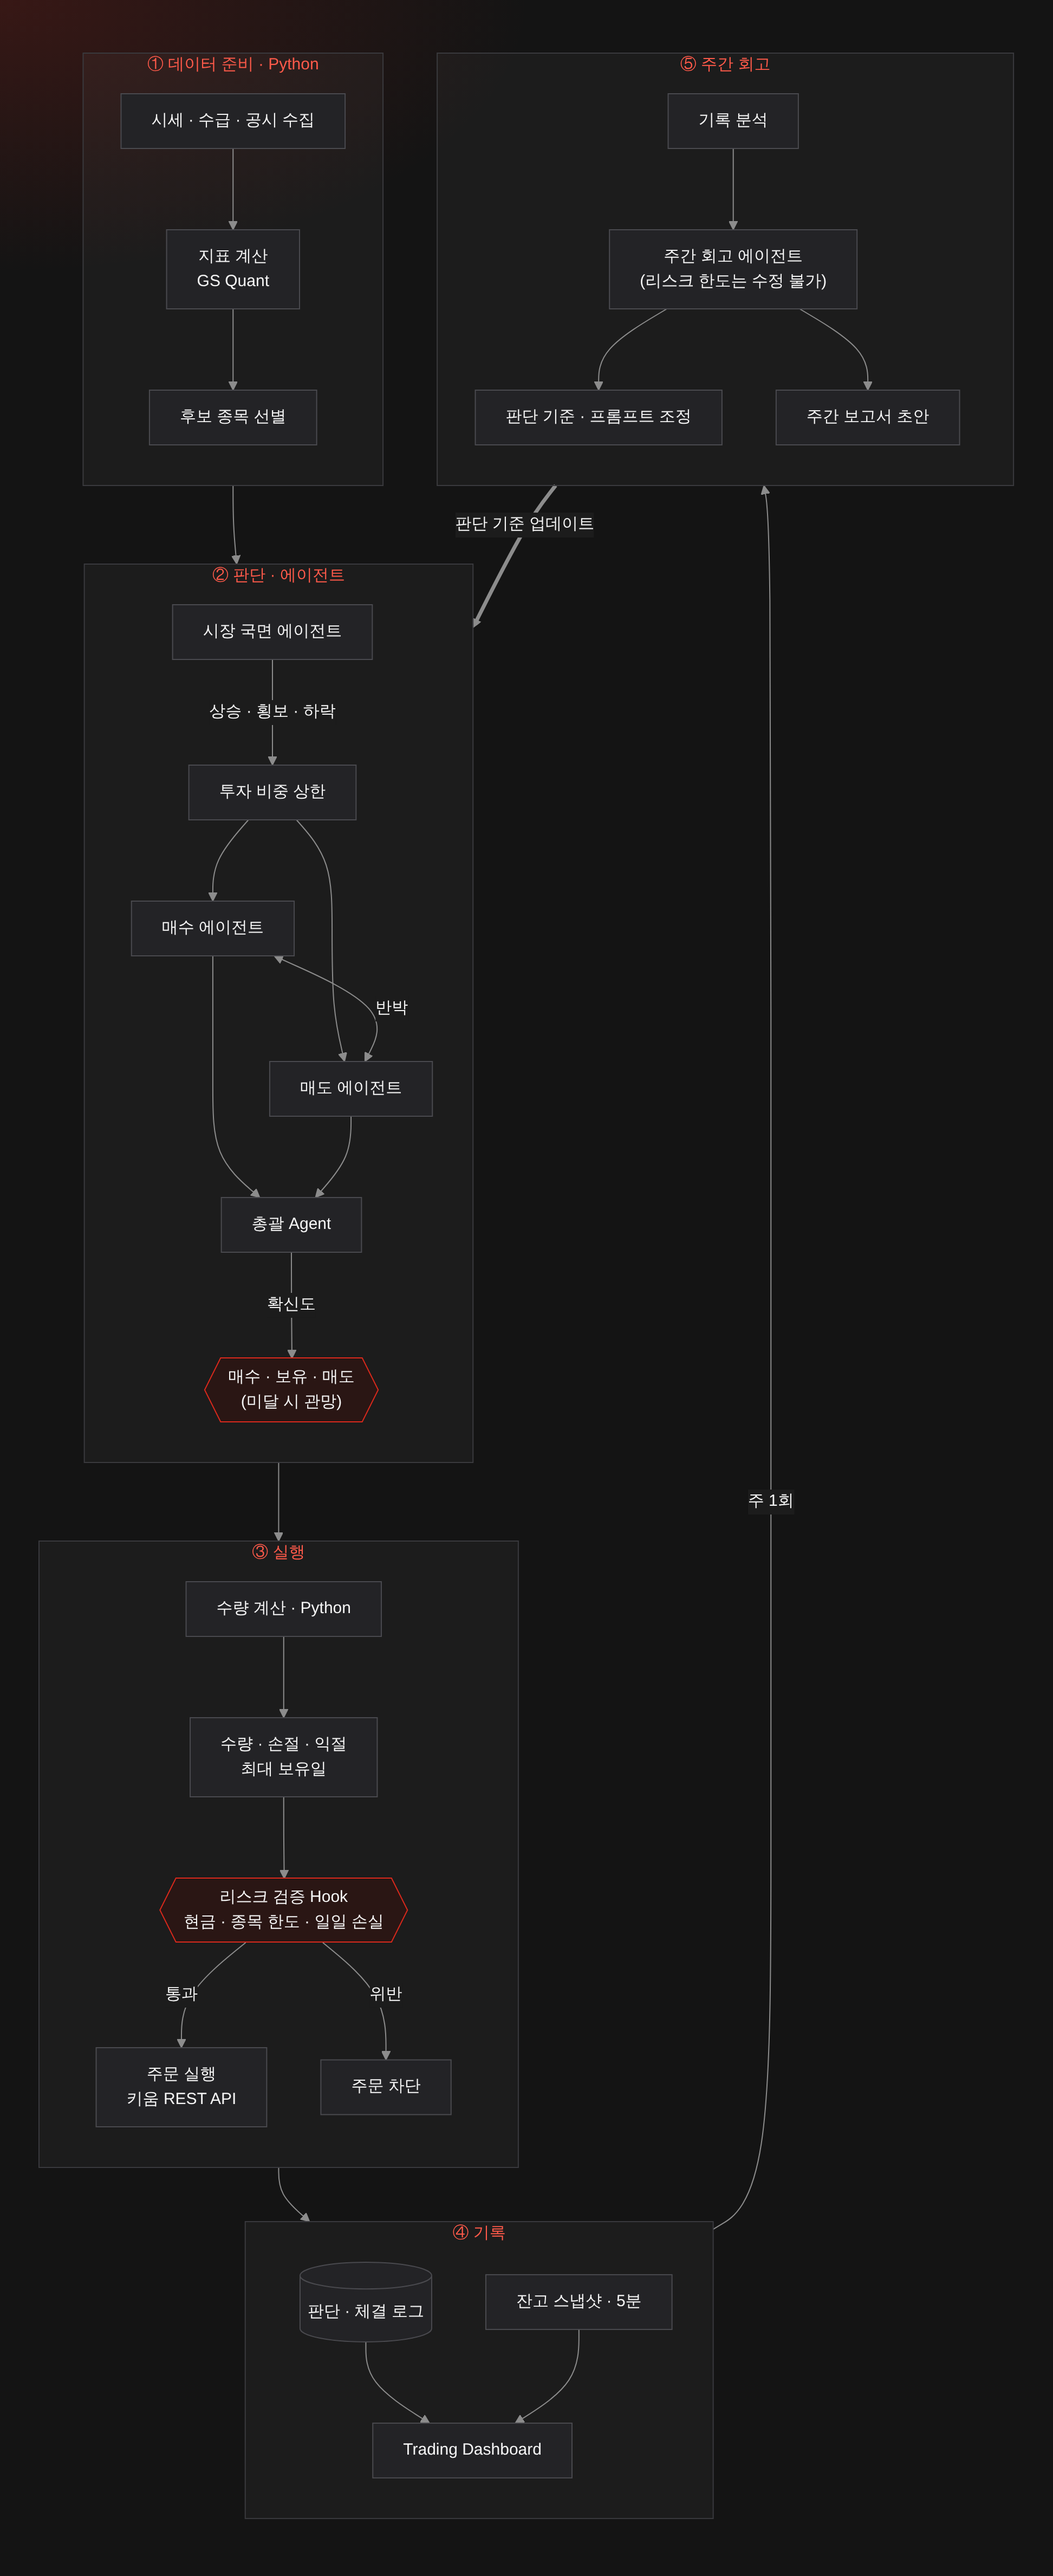
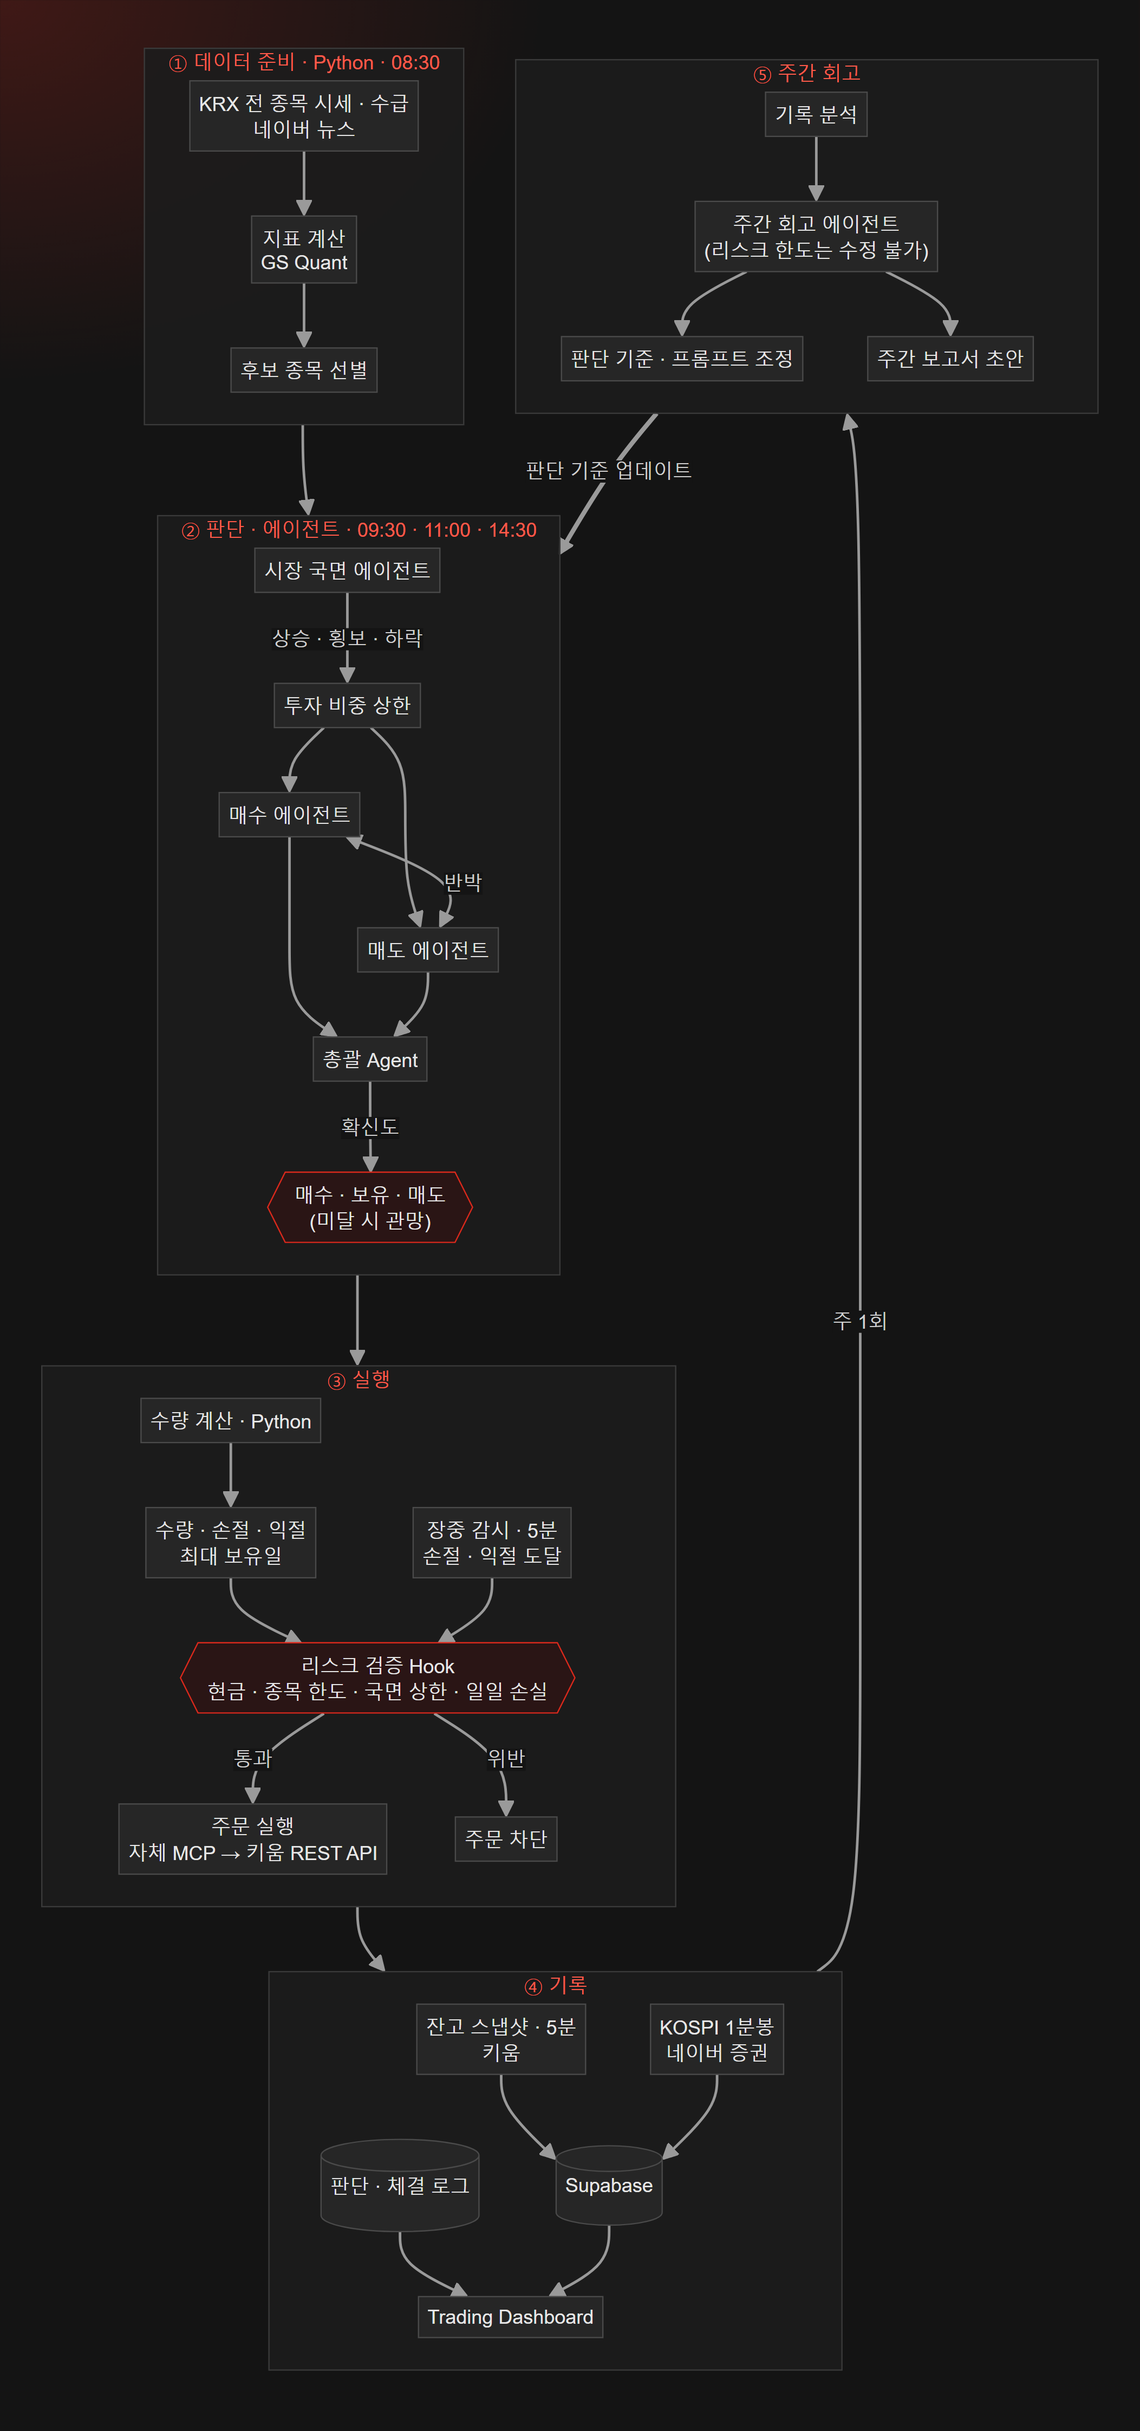
README: update architecture diagram and docs for launch day
Diagram now shows KRX and Naver news in data prep, the three daily
decision runs, the intraday stop / take-profit watch feeding the risk
Hook, orders through our own MCP, and live KOSPI via Supabase. Add the
daily schedule, new data sources and the agent folder layout.

diff --git a/README.ko.md b/README.ko.md
@@ -12,7 +12,7 @@
 ![Kiwoom](https://img.shields.io/badge/Broker-Kiwoom%20REST%20API-1f4fa3?style=flat-square)
 ![Supabase](https://img.shields.io/badge/Realtime-Supabase-3ecf8e?style=flat-square)
 ![D3](https://img.shields.io/badge/Viz-D3.js-f9a03c?style=flat-square)
-![Status](https://img.shields.io/badge/Status-대회%20준비%20중-da291c?style=flat-square)
+![Status](https://img.shields.io/badge/Status-대회%20진행%20중-da291c?style=flat-square)
 
 <img src="assets/dashboard.jpg" alt="Trading Dashboard" width="100%">
 
@@ -50,12 +50,12 @@ LLM에게 매매를 통째로 맡기면 두 가지 문제가 생깁니다.
 
 ```mermaid
 flowchart TB
-    subgraph S1["① 데이터 준비 · Python"]
-        direction LR
-        A1["시세 · 수급 · 뉴스 수집"] --> A2["지표 계산<br/>GS Quant"] --> A3["후보 종목 선별"]
+    subgraph S1["① 데이터 준비 · Python · 08:30"]
+        direction TB
+        A1["KRX 전 종목 시세 · 수급<br/>네이버 뉴스"] --> A2["지표 계산<br/>GS Quant"] --> A3["후보 종목 선별"]
     end
-    subgraph S2["② 판단 · 에이전트"]
-        direction LR
+    subgraph S2["② 판단 · 에이전트 · 09:30 · 11:00 · 14:30"]
+        direction TB
         B1["시장 국면 에이전트"] -->|상승 · 횡보 · 하락| B2["투자 비중 상한"]
         B2 --> C1["매수 에이전트"]
         B2 --> C2["매도 에이전트"]
@@ -65,18 +65,21 @@ flowchart TB
         E1 -->|확신도| E2{{"매수 · 보유 · 매도<br/>(미달 시 관망)"}}
     end
     subgraph S3["③ 실행"]
-        direction LR
-        F1["수량 계산 · Python"] --> F2["수량 · 손절 · 익절<br/>최대 보유일"] --> G{{"리스크 검증 Hook<br/>현금 · 종목 한도 · 일일 손실"}}
-        G -->|통과| H["주문 실행<br/>키움 REST API"]
+        direction TB
+        F1["수량 계산 · Python"] --> F2["수량 · 손절 · 익절<br/>최대 보유일"] --> G{{"리스크 검증 Hook<br/>현금 · 종목 한도 · 국면 상한 · 일일 손실"}}
+        M["장중 감시 · 5분<br/>손절 · 익절 도달"] --> G
+        G -->|통과| H["주문 실행<br/>자체 MCP → 키움 REST API"]
         G -->|위반| X["주문 차단"]
     end
     subgraph S4["④ 기록"]
-        direction LR
+        direction TB
         I[("판단 · 체결 로그")] --> K["Trading Dashboard"]
-        L["잔고 스냅샷 · 5분"] --> K
+        L["잔고 스냅샷 · 5분<br/>키움"] --> SB[("Supabase")]
+        N["KOSPI 1분봉<br/>네이버 증권"] --> SB
+        SB --> K
     end
     subgraph S5["⑤ 주간 회고"]
-        direction LR
+        direction TB
         J1["기록 분석"] --> J2["주간 회고 에이전트<br/>(리스크 한도는 수정 불가)"]
         J2 --> J3["판단 기준 · 프롬프트 조정"]
         J2 --> J4["주간 보고서 초안"]
@@ -94,9 +97,21 @@ flowchart TB
 | 시장 국면 | 서브에이전트 | 지수 추세·변동성으로 국면 분류, 전체 투자 비중 상한 조정 |
 | 매수 / 매도 | 서브에이전트 | 후보·보유 종목별 강세 / 약세 근거 제시, 서로 반박 |
 | 주간 회고 | 서브에이전트 | 거래 기록 분석, 판단 기준값 조정 제안 (리스크 한도는 수정 불가) |
-| 데이터 준비 | Python | 시세·수급·뉴스 수집, 지표 계산 → LLM에는 숫자 요약만 전달 |
+| 데이터 준비 | Python | KRX 전 종목 시세·수급, 네이버 뉴스 수집, 지표 계산 → LLM에는 숫자 요약만 전달 |
 | 수량 계산 | Python | 확신도를 주문 수량으로 변환, 손절·익절·최대 보유일 설정 |
-| 리스크 검증 | Claude Code Hook | 주문 직전 한도 강제 확인, 위반 시 차단 |
+| 리스크 검증 | Claude Code Hook | 주문 직전 현금·종목 한도·국면 상한·일일 손실 강제 확인, 위반 시 차단 |
+| 장중 감시 | Python | 5분마다 손절·익절·최대 보유일 확인, 걸리면 매도 전용 실행 |
+| 주문 실행 | 자체 MCP 서버 | 키움 REST API를 직접 호출 (키움 공식 MCP 대신 직접 구현, 대회 운영진 확인) |
+
+### 하루 일정 (평일)
+
+| 시각 | 실행 | LLM |
+|---|---|---|
+| 08:30 | 데이터 준비 — 계좌 조회, 시세·수급·뉴스 → 후보 종목 | ❌ |
+| 09:05 – 15:20 | 장중 감시 — 5분마다 손절·익절 확인 | 걸릴 때만 |
+| **09:30 · 11:00 · 14:30** | 정기 판단 — 국면 → 매수 ⇄ 매도 토론 → 총괄 결정 → 주문 | ⭕ |
+| 15:45 | 마감 기록 — 오늘 자산을 대시보드에 반영 | ❌ |
+| 토 10:00 | 주간 회고 · 보고서 초안 | ⭕ |
 
 ### 설계 원칙
 
@@ -124,6 +139,7 @@ flowchart TB
 | 기능 | 설명 |
 |---|---|
 | 실시간 수익률 | 장중 5분마다 키움 잔고를 조회해 Supabase로 전송, 화면은 30초마다 갱신 |
+| 실시간 KOSPI | 네이버 증권 1분봉을 Supabase가 1분마다 수집 (지연 없음), 전일 흐름·거래량·RSI와 함께 표시 |
 | 누적 수익률 vs KOSPI | 시장 국면(상승·횡보·하락) 띠와 함께 표시 |
 | 확신도 vs 수익 | 에이전트의 확신도가 실제 수익과 맞았는지 검증 |
 | 매매 타임라인 | 거래마다 에이전트 토론 내용을 툴팁으로 확인 |
@@ -138,10 +154,10 @@ flowchart TB
 | 영역 | 사용 |
 |---|---|
 | 에이전트 | Claude Code (서브에이전트 `.claude/agents/`, Hooks, 헤드리스 실행) |
-| 데이터 | 키움 REST API, pykrx, 네이버 뉴스 검색 API |
+| 데이터 | 키움 REST API, KRX 정보데이터시스템 (pykrx), 네이버 뉴스 검색 (NAVER API HUB), 네이버 증권 1분봉 |
 | 지표 | GS Quant (이동평균·변동성·RSI·최대 낙폭) |
 | 대시보드 | HTML · CSS · D3.js (빌드 도구 없음), GitHub Pages |
-| 실시간 · 게시판 | Supabase (PostgreSQL, RLS, RPC) |
+| 실시간 · 게시판 | Supabase (PostgreSQL, RLS, RPC, pg_cron) |
 | 자동 실행 | Windows 작업 스케줄러 |
 
 ## 폴더 구조
@@ -157,8 +173,14 @@ hynix-298f/
 │   ├── .env.example
 │   └── run_snapshot.bat
 ├── supabase/
-│   └── schema.sql        # 게시판 · 스냅샷 테이블, 접근 권한
-├── agent/                # 트레이딩 에이전트 (개발 중)
+│   ├── schema.sql        # 게시판 · 스냅샷 테이블, 접근 권한
+│   └── kospi.sql         # 실시간 KOSPI 1분 수집 (pg_cron)
+├── agent/                # 트레이딩 에이전트 (자세한 구조는 agent/README.md)
+│   ├── CLAUDE.md         # 총괄 Agent 지침
+│   ├── .claude/          # 서브에이전트 · 리스크 Hook · 도구 권한
+│   ├── config/           # 리스크 한도(고정) · 판단 기준값
+│   ├── src/              # 데이터 준비 · 수량 계산 · 리스크 · 주문 MCP · 장중 감시
+│   └── run.py            # 실행 진입점 (작업 스케줄러가 호출)
 ├── reports/              # 사전 계획서 · 주간 보고서 · 최종 보고서
 └── assets/               # README 이미지
 ```
@@ -173,6 +195,9 @@ cd docs && python -m http.server 8000   # → http://localhost:8000
 
 # 잔고 조회 확인 (키움 키 설정 후)
 cd live && python snapshot.py --dry
+
+# 에이전트 한 번 실행 (agent/.env 의 MODE=mock 이면 가상 계좌)
+cd agent && .venv\Scripts\python run.py prep && .venv\Scripts\python run.py decide
 ```
 
 ## 결과와 회고

diff --git a/README.md b/README.md
@@ -12,7 +12,7 @@ Team *Hynix 298F* · 2026 Navist UOStock AI Auto-Trading Mock Investment Competi
 ![Kiwoom](https://img.shields.io/badge/Broker-Kiwoom%20REST%20API-1f4fa3?style=flat-square)
 ![Supabase](https://img.shields.io/badge/Realtime-Supabase-3ecf8e?style=flat-square)
 ![D3](https://img.shields.io/badge/Viz-D3.js-f9a03c?style=flat-square)
-![Status](https://img.shields.io/badge/Status-Pre--competition-da291c?style=flat-square)
+![Status](https://img.shields.io/badge/Status-Competition%20live-da291c?style=flat-square)
 
 <img src="assets/dashboard.jpg" alt="Trading Dashboard" width="100%">
 
@@ -50,12 +50,12 @@ Indicators are computed in Python and handed to the model as short summaries, an
 
 ```mermaid
 flowchart TB
-    subgraph S1["① Data prep · Python"]
-        direction LR
-        A1["Collect prices · flows · filings"] --> A2["Compute indicators<br/>GS Quant"] --> A3["Select candidates"]
+    subgraph S1["① Data prep · Python · 08:30"]
+        direction TB
+        A1["KRX prices · flows<br/>Naver news"] --> A2["Compute indicators<br/>GS Quant"] --> A3["Select candidates"]
     end
-    subgraph S2["② Decide · agents"]
-        direction LR
+    subgraph S2["② Decide · agents · 09:30 · 11:00 · 14:30"]
+        direction TB
         B1["Market-regime agent"] -->|bull · sideways · bear| B2["Exposure cap"]
         B2 --> C1["Bull agent"]
         B2 --> C2["Bear agent"]
@@ -65,18 +65,21 @@ flowchart TB
         E1 -->|conviction| E2{{"buy · hold · sell<br/>(wait if below bar)"}}
     end
     subgraph S3["③ Execute"]
-        direction LR
-        F1["Sizing · Python"] --> F2["quantity · stop · target<br/>max holding days"] --> G{{"Risk Hook<br/>cash · per-stock limit · daily loss"}}
-        G -->|pass| H["Order<br/>Kiwoom REST API"]
+        direction TB
+        F1["Sizing · Python"] --> F2["quantity · stop · target<br/>max holding days"] --> G{{"Risk Hook<br/>cash · per-stock · regime cap · daily loss"}}
+        M["Intraday watch · 5 min<br/>stop / target hit"] --> G
+        G -->|pass| H["Order<br/>own MCP → Kiwoom REST API"]
         G -->|violation| X["Blocked"]
     end
     subgraph S4["④ Log"]
-        direction LR
+        direction TB
         I[("Decision & fill log")] --> K["Trading Dashboard"]
-        L["Balance snapshot · 5 min"] --> K
+        L["Balance snapshot · 5 min<br/>Kiwoom"] --> SB[("Supabase")]
+        N["KOSPI 1-min bars<br/>Naver Finance"] --> SB
+        SB --> K
     end
     subgraph S5["⑤ Weekly review"]
-        direction LR
+        direction TB
         J1["Analyse the log"] --> J2["Review agent<br/>(risk limits are fixed)"]
         J2 --> J3["Tune thresholds · prompts"]
         J2 --> J4["Weekly report draft"]
@@ -94,9 +97,21 @@ flowchart TB
 | Market regime | Sub-agent | Classifies the market from index trend and volatility, sets the overall exposure cap |
 | Bull / Bear | Sub-agents | Make the case for and against each candidate and holding, then rebut each other |
 | Weekly review | Sub-agent | Analyses the trade log and proposes threshold changes (cannot touch risk limits) |
-| Data prep | Python | Collects prices, flows and filings, computes indicators, passes only numeric summaries to the LLM |
+| Data prep | Python | Collects KRX prices and investor flows plus Naver news, computes indicators, passes only numeric summaries to the LLM |
 | Sizing | Python | Converts conviction into order quantity; sets stop-loss, take-profit and max holding days |
-| Risk check | Claude Code Hook | Enforces hard limits right before every order; blocks violations |
+| Risk check | Claude Code Hook | Enforces cash, per-stock, regime-cap and daily-loss limits right before every order; blocks violations |
+| Intraday watch | Python | Checks stop-loss, take-profit and max holding days every 5 minutes; launches a sell-only run when hit |
+| Order execution | Own MCP server | Calls the Kiwoom REST API directly instead of Kiwoom's official MCP (cleared with the organisers) |
+
+### Daily schedule (weekdays, KST)
+
+| Time | Run | LLM |
+|---|---|---|
+| 08:30 | Data prep — account, prices, flows, news → candidates | no |
+| 09:05 – 15:20 | Intraday watch — stop / take-profit every 5 min | only when triggered |
+| **09:30 · 11:00 · 14:30** | Decision — regime → bull ⇄ bear debate → lead agent → orders | yes |
+| 15:45 | Close — record today's equity on the dashboard | no |
+| Sat 10:00 | Weekly review and report draft | yes |
 
 ### Design principles
 
@@ -124,6 +139,7 @@ A single page that shows not just *what* the agent traded but *why*.
 | Feature | Description |
 |---|---|
 | Live return | Kiwoom balance polled every 5 minutes during market hours, pushed to Supabase; the page refreshes every 30 s |
+| Live KOSPI | Naver Finance 1-minute bars collected by Supabase every minute (no delay), drawn over the previous day with volume and RSI |
 | Cumulative return vs. KOSPI | Overlaid with a market-regime strip (bull · sideways · bear) |
 | Conviction vs. return | Checks whether the agent's confidence actually predicted outcomes |
 | Trade timeline | The agents' debate behind every trade, one tap away |
@@ -138,10 +154,10 @@ A single page that shows not just *what* the agent traded but *why*.
 | Area | Tools |
 |---|---|
 | Agents | Claude Code — sub-agents (`.claude/agents/`), Hooks, headless mode |
-| Market data | Kiwoom REST API, pykrx, Naver News Search API |
+| Market data | Kiwoom REST API, KRX Data Marketplace (pykrx), Naver news search (NAVER API HUB), Naver Finance 1-minute bars |
 | Indicators | GS Quant (moving averages, volatility, RSI, max drawdown) |
 | Dashboard | Plain HTML · CSS · D3.js (no build step), GitHub Pages |
-| Realtime & comments | Supabase (PostgreSQL, Row Level Security, RPC) |
+| Realtime & comments | Supabase (PostgreSQL, Row Level Security, RPC, pg_cron) |
 | Scheduling | Windows Task Scheduler |
 
 ## Repository layout
@@ -158,8 +174,14 @@ hynix-298f/
 │   ├── .env.example
 │   └── run_snapshot.bat
 ├── supabase/
-│   └── schema.sql        # Comments & snapshots tables, access rules
-├── agent/                # Trading agent (in progress)
+│   ├── schema.sql        # Comments & snapshots tables, access rules
+│   └── kospi.sql         # Live KOSPI 1-minute collector (pg_cron)
+├── agent/                # Trading agent (details in agent/README.md)
+│   ├── CLAUDE.md         # Lead agent instructions
+│   ├── .claude/          # Sub-agents, risk Hook, tool permissions
+│   ├── config/           # Risk limits (fixed) · decision thresholds
+│   ├── src/              # Data prep · sizing · risk · order MCP · intraday watch
+│   └── run.py            # Entry point called by Task Scheduler
 ├── reports/              # Plan, weekly and final reports
 └── assets/               # README images
 ```
@@ -174,6 +196,9 @@ cd docs && python -m http.server 8000   # → http://localhost:8000
 
 # Check the balance connection (after filling live/.env)
 cd live && python snapshot.py --dry
+
+# Run the agent once (MODE=mock in agent/.env trades a virtual account)
+cd agent && .venv\Scripts\python run.py prep && .venv\Scripts\python run.py decide
 ```
 
 ## Results & retrospective
